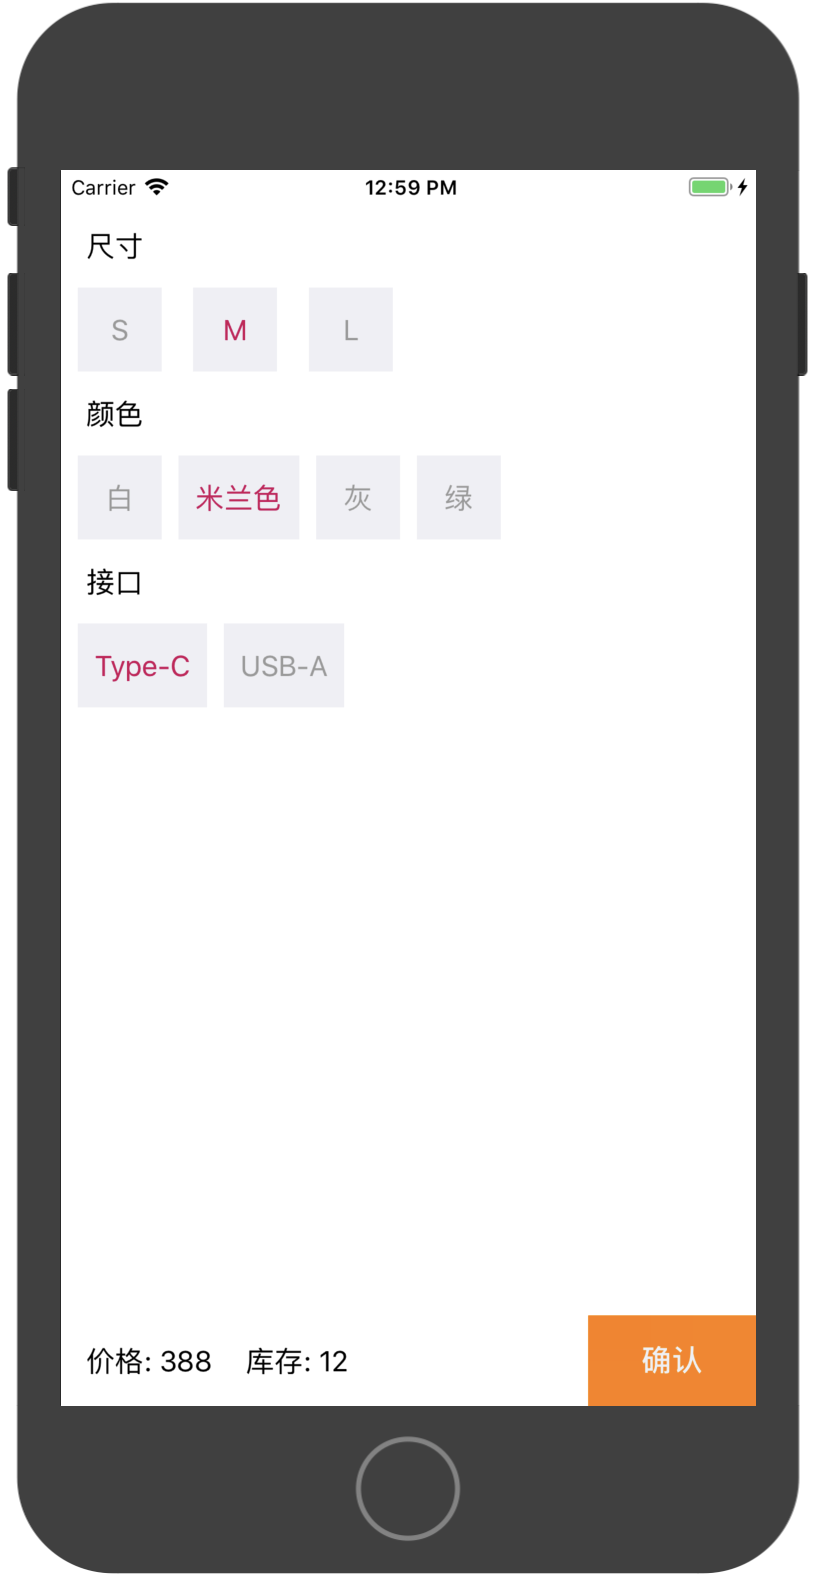
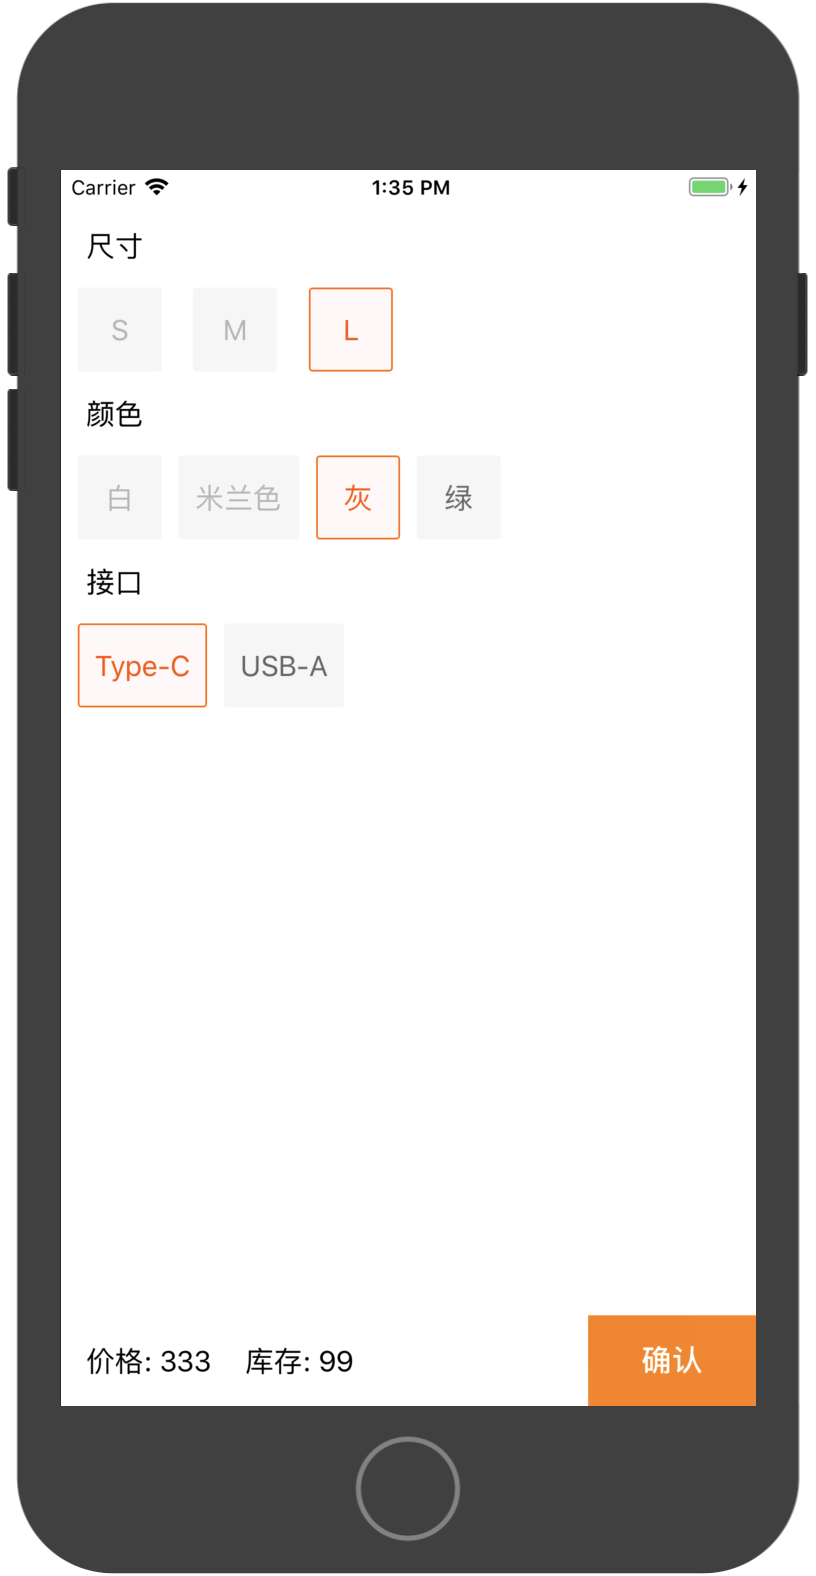
优化UI细节

diff --git a/SKUFilterDemo/SKUFilterDemo/CollectionViewCell.swift b/SKUFilterDemo/SKUFilterDemo/CollectionViewCell.swift
@@ -10,17 +10,27 @@ import UIKit
 
 class CollectionViewCell: UICollectionViewCell {
     
-    @IBOutlet weak var label: UILabel!
+    @IBOutlet weak var label: UILabel! {
+        didSet {
+            label.layer.masksToBounds = true
+            label.layer.cornerRadius = 2
+            label.layer.borderWidth = 1
+        }
+    }
     
     func set(text: String?) {
         label.text = text
     }
     
     func set(enabled: Bool) {
-        label.textColor = enabled ? #colorLiteral(red: 0, green: 0, blue: 0, alpha: 1) : #colorLiteral(red: 0.6000000238, green: 0.6000000238, blue: 0.6000000238, alpha: 1)
+        label.textColor = enabled ? #colorLiteral(red: 0.4, green: 0.4, blue: 0.4, alpha: 1) : #colorLiteral(red: 0.7098039216, green: 0.7098039216, blue: 0.7098039216, alpha: 1)
+        label.backgroundColor = #colorLiteral(red: 0.9647058824, green: 0.9647058824, blue: 0.9647058824, alpha: 1)
+        label.layer.borderColor = #colorLiteral(red: 1, green: 1, blue: 1, alpha: 0)
     }
     
     func set(selected: Bool) {
-        label.textColor = selected ? #colorLiteral(red: 0.8078431487, green: 0.02745098062, blue: 0.3333333433, alpha: 1) : label.textColor
+        label.textColor = selected ? #colorLiteral(red: 1, green: 0.3137254902, blue: 0, alpha: 1) : label.textColor
+        label.backgroundColor = selected ? #colorLiteral(red: 1, green: 0.9725490196, blue: 0.9764705882, alpha: 1) : #colorLiteral(red: 0.9647058824, green: 0.9647058824, blue: 0.9647058824, alpha: 1)
+        label.layer.borderColor = selected ? #colorLiteral(red: 1, green: 0.3137254902, blue: 0, alpha: 1) : #colorLiteral(red: 1, green: 1, blue: 1, alpha: 0)
     }
 }
